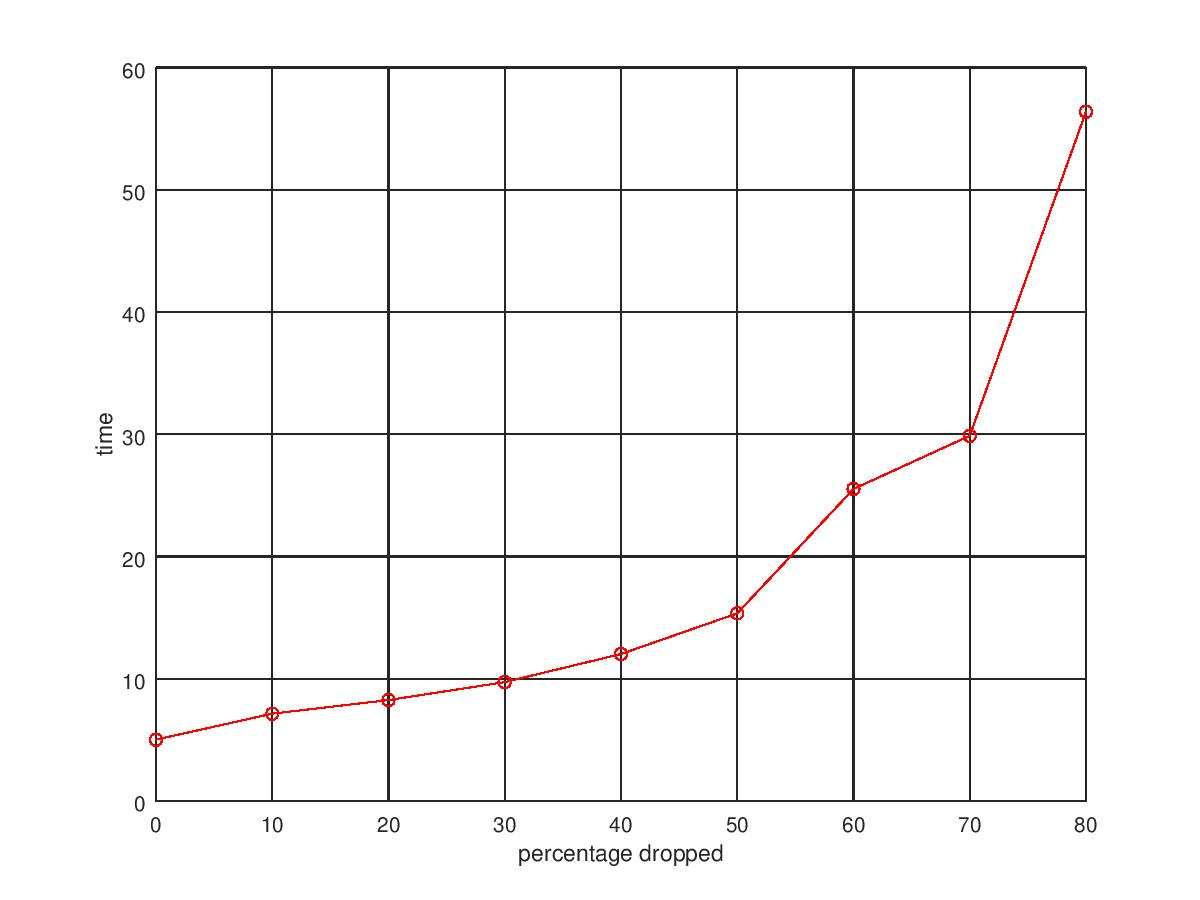
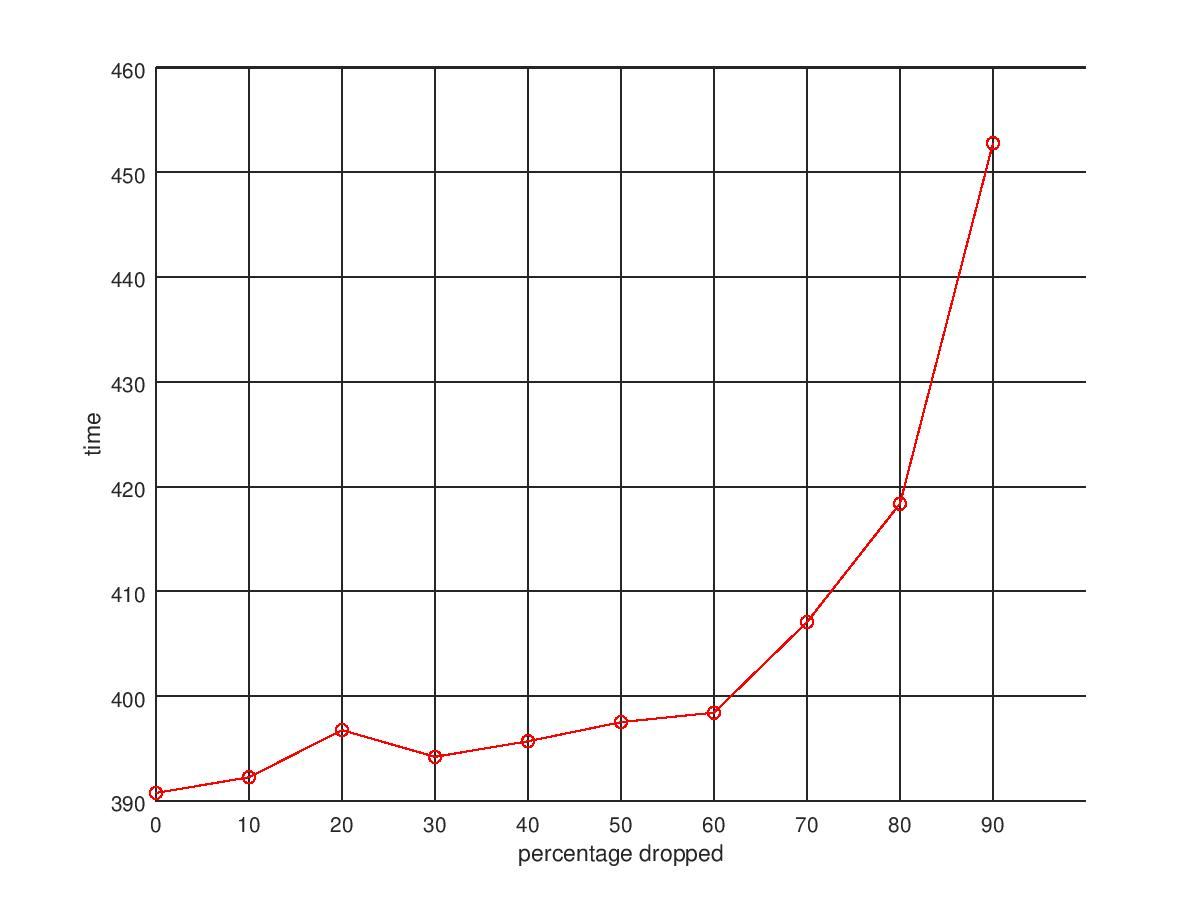
gossip update

diff --git a/gossip/gossip.go b/gossip/gossip.go
@@ -63,7 +63,7 @@ func routine (my_id int, nodes int, base_port int, ttl int, t time.Duration,
               g *graph.Graph) {
     var seen_confirmations = make(map[int]bool)
     seen_message := false
-    var confirmations_left = nodes // for node 0
+    var confirmations_left = nodes - 1 // for node 0
     var msg_id = my_id * 100000
 
     node, _ := g.GetNode(my_id)
@@ -100,7 +100,7 @@ func routine (my_id int, nodes int, base_port int, ttl int, t time.Duration,
                 m.Sender = my_id
                 m.Id = msg_id
                 msg_id += 1
-                go gossip(&m, g, my_id, m.Origin, base_port, ttl, t)
+                gossip(&m, g, my_id, m.Origin, base_port, ttl, t)
                 if (my_id == 0) && (confirmations_left == 0) {
                     fmt.Printf("%v\n",
                                float64(time.Since(start).Nanoseconds()) /
@@ -115,10 +115,10 @@ func routine (my_id int, nodes int, base_port int, ttl int, t time.Duration,
                 m.Sender = my_id
                 m.Id = msg_id
                 msg_id += 1
-                go gossip(&m, g, my_id, m.Origin, base_port, ttl, t)
+                gossip(&m, g, my_id, m.Origin, base_port, ttl, t)
                 var my_confirmation = Message { msg_id, "notification", my_id, my_id, ""}
                 msg_id += 1
-                go gossip(&my_confirmation, g, my_id, m.Origin, base_port, ttl, t)
+                gossip(&my_confirmation, g, my_id, m.Origin, base_port, ttl, t)
             }
         }
     }

diff --git a/gossip/octave.m b/gossip/octave.m
@@ -5,7 +5,7 @@ y = m(:, 2)
 hold on;
 grid on;
 plot(x, y, 'o-r');
-set(gca,'XTick',0:10:100)
+set(gca,'XTick',0:10:90)
 xlabel("percentage dropped")
 ylabel("time")
 print -djpg image.jpg
